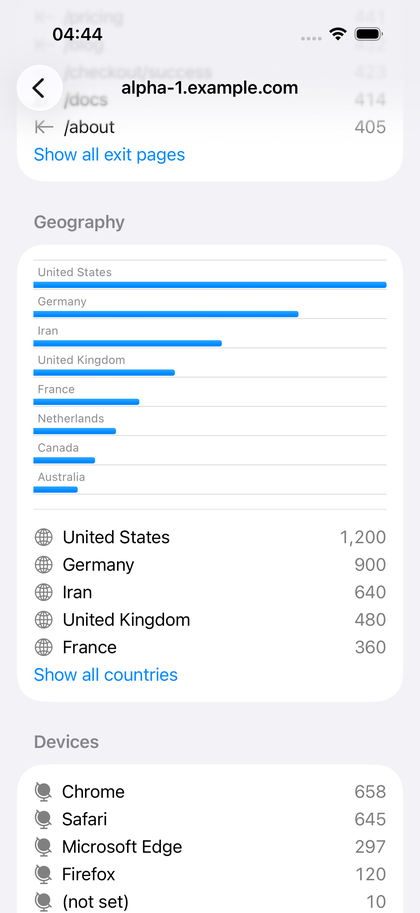
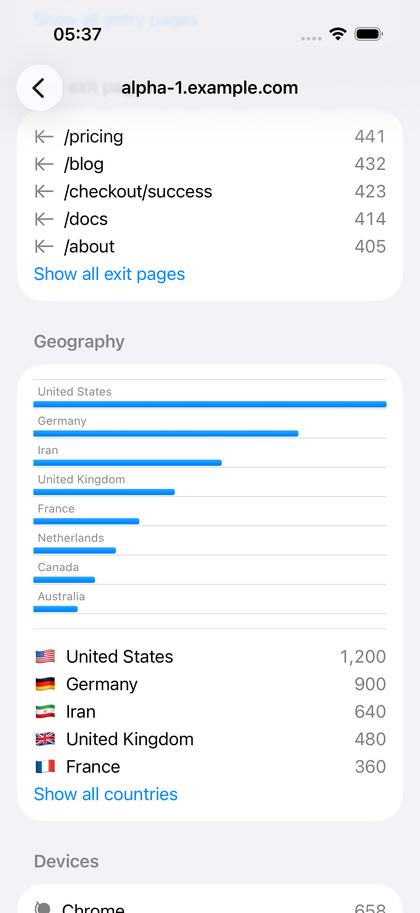
Render full-report grid with aligned columns and flags

diff --git a/Packages/PlauselyKit/Sources/DashboardUI/Features/Reports/BreakdownViews.swift b/Packages/PlauselyKit/Sources/DashboardUI/Features/Reports/BreakdownViews.swift
@@ -595,6 +595,7 @@ struct RowGlyph: View {
                     .foregroundStyle(.secondary)
             }
         }
+        .frame(width: 24, alignment: .center)
         .accessibilityHidden(true)
     }
 }
@@ -1151,43 +1152,46 @@ public struct BreakdownReportView: View {
     /// Lazy aligned grid on both platforms: every column always renders
     /// (nothing collapses away like Table's automatic columns), rows stay
     /// lazy for long reports, and sorting stays server-side via the menu.
-    private var gridColumns: [GridItem] {
-        [GridItem(.flexible(minimum: 100), alignment: .leading)] +
-            model.definition.columns.map { _ in GridItem(.fixed(92), alignment: .trailing) }
-    }
-
     private var dataGrid: some View {
         // Wide families (pages: 6 metric columns) exceed phone widths:
-        // scroll horizontally instead of clipping columns away.
+        // scroll horizontally instead of clipping columns away. A Grid
+        // (not LazyVGrid) keeps every column aligned across rows on both
+        // platforms and keeps cells visible to accessibility: LazyVGrid
+        // drops static cell content from the AX tree and, on iOS, never
+        // rendered the value cells at all (blank since 05.1, proven by
+        // period screenshots). Pages stay small because the model paginates
+        // server-side, so nothing lazy is lost.
         ScrollView(.horizontal, showsIndicators: true) {
-            LazyVGrid(columns: gridColumns, alignment: .leading, spacing: 6) {
-            Text("Name")
-                .font(.caption)
-                .foregroundStyle(.secondary)
-            ForEach(model.definition.columns, id: \.self) { metric in
-                Text(MetricID.descriptor(for: metric).displayName)
-                    .font(.caption)
-                    .foregroundStyle(.secondary)
-            }
-            ForEach(Array(model.rows.enumerated()), id: \.offset) { index, row in
-                nameCell(row: row, index: index)
-                ForEach(model.definition.columns, id: \.self) { metric in
-                    // Visual-only cell: LazyVGrid drops static cell content
-                    // from the AX tree (AX-proven 05.5: only row links and
-                    // the footer survive), so VoiceOver reaches values and
-                    // comparison through the summary badges and the
-                    // all-column row detail instead.
-                    VStack(alignment: .trailing, spacing: 0) {
-                        Text(row.metrics[metric].map { formatter.string(for: $0, as: metric) } ?? "–")
+            Grid(alignment: .leading, horizontalSpacing: 8, verticalSpacing: 6) {
+                GridRow {
+                    Text("Name")
+                        .font(.caption)
+                        .foregroundStyle(.secondary)
+                    ForEach(model.definition.columns, id: \.self) { metric in
+                        Text(MetricID.descriptor(for: metric).displayName)
+                            .font(.caption)
                             .foregroundStyle(.secondary)
-                        if let short = shortChangeText(row.change[metric] ?? nil) {
-                            Text(short)
-                                .font(.caption2)
-                                .foregroundStyle(.secondary)
+                            .gridColumnAlignment(.trailing)
+                    }
+                }
+                ForEach(Array(model.rows.enumerated()), id: \.offset) { index, row in
+                    GridRow {
+                        nameCell(row: row, index: index)
+                        ForEach(model.definition.columns, id: \.self) { metric in
+                            VStack(alignment: .trailing, spacing: 0) {
+                                Text(row.metrics[metric].map { formatter.string(for: $0, as: metric) } ?? "–")
+                                    .foregroundStyle(.secondary)
+                                    .monospacedDigit()
+                                if let short = shortChangeText(row.change[metric] ?? nil) {
+                                    Text(short)
+                                        .font(.caption2)
+                                        .foregroundStyle(changeDirectionColor(row.change[metric] ?? nil))
+                                }
+                            }
+                            .gridColumnAlignment(.trailing)
                         }
                     }
                 }
-            }
             }
         }
     }

diff --git a/Tests/PlauselyiOSUITests/SmokeTests.swift b/Tests/PlauselyiOSUITests/SmokeTests.swift
@@ -26,6 +26,7 @@ final class SmokeTests: XCTestCase {
 }
 
 
+
 /// Site shell against the deterministic 13-site mock directory: sidebar
 /// selection, long names, detail/back, and instance switching.
 @MainActor

diff --git a/README.md b/README.md
@@ -19,9 +19,9 @@ the browser, linked where appropriate.
 
 ## Screenshots
 
-| iOS | macOS |
-| --- | --- |
-| ![Plausely on iPhone](assets/mockup-ios.png) | ![Plausely on macOS](assets/screenshot-macos-overview.png) |
+| iOS overview | iOS geography | macOS |
+| --- | --- | --- |
+| ![Overview on iPhone](assets/screenshot-ios-overview.png) | ![Geography on iPhone](assets/screenshot-ios-geo.png) | ![Plausely on macOS](assets/screenshot-macos-overview.png) |
 
 ## Requirements
 
